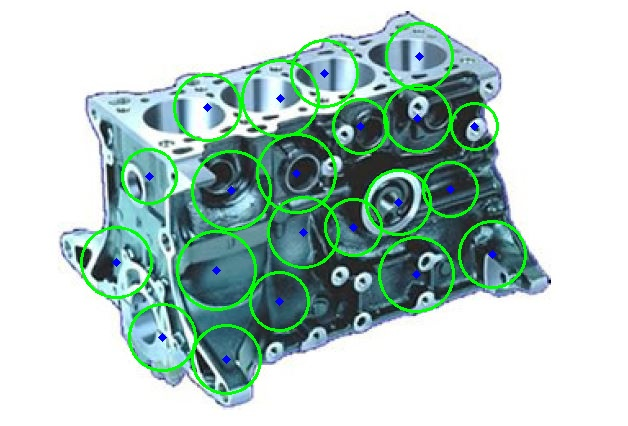
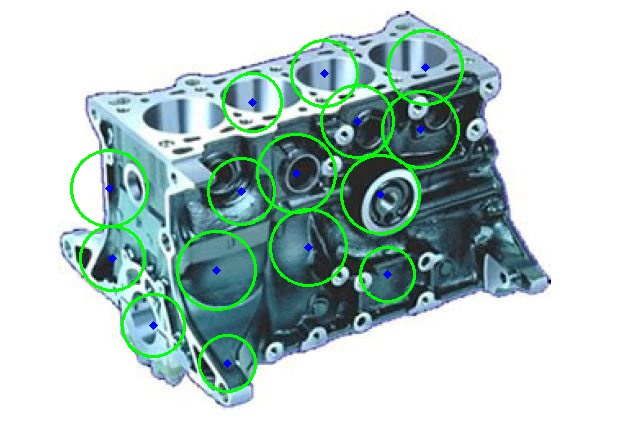
Hough_Circulos

Changed region(s): [[0.121, 0.0305, 0.8471, 0.946], [0.0908, 0.3967, 0.121, 0.4883]]

diff --git a/src/houghcirculos/HoughCirculos.java b/src/houghcirculos/HoughCirculos.java
@@ -66,7 +66,7 @@ public class HoughCirculos {
         JTextField minDistField = new JTextField("50", 5);
         JTextField param1Field = new JTextField("40", 5);
         JTextField param2Field = new JTextField("20", 5);
-        JTextField minRadioField = new JTextField("20", 5);
+        JTextField minRadioField = new JTextField("25", 5);
         JTextField maxRadioField = new JTextField("40", 5);
 
         // Crear un botón para ejecutar el código con los nuevos parámetros
